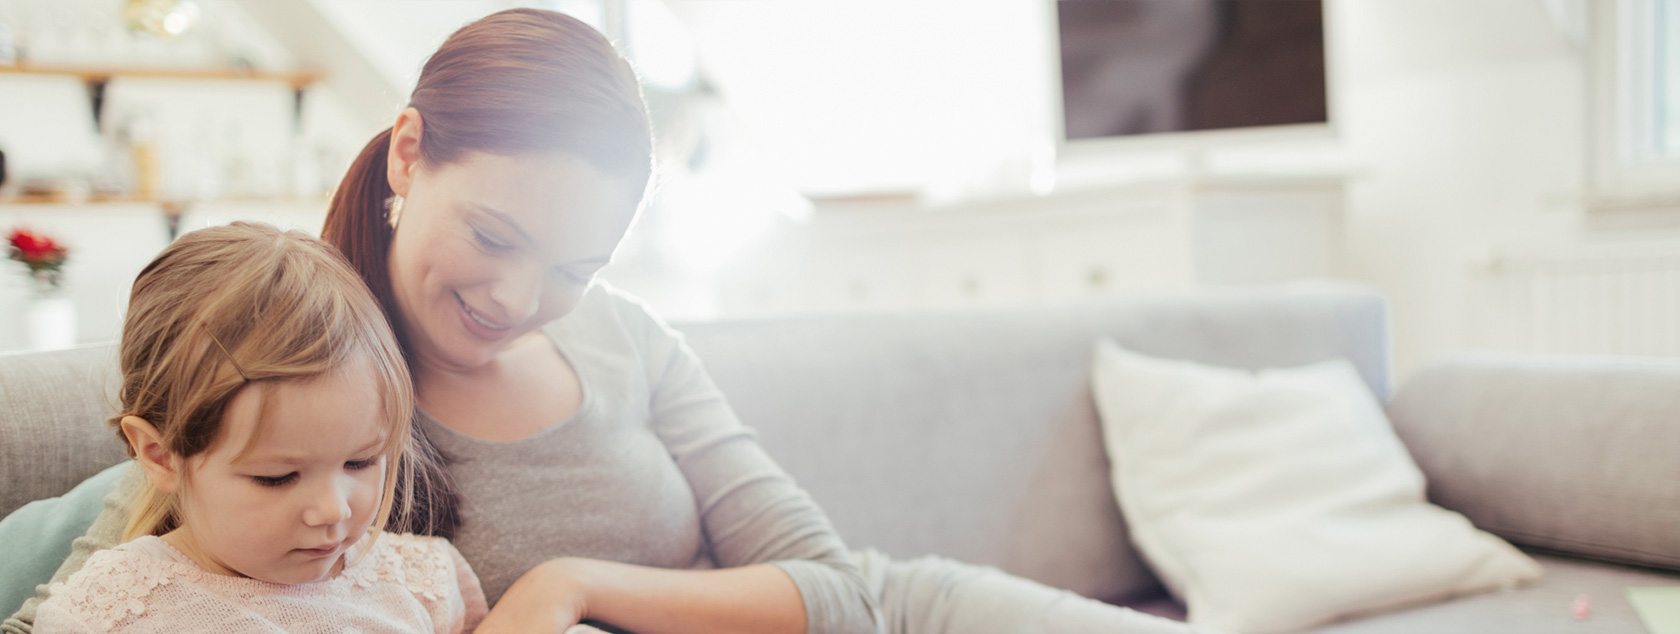
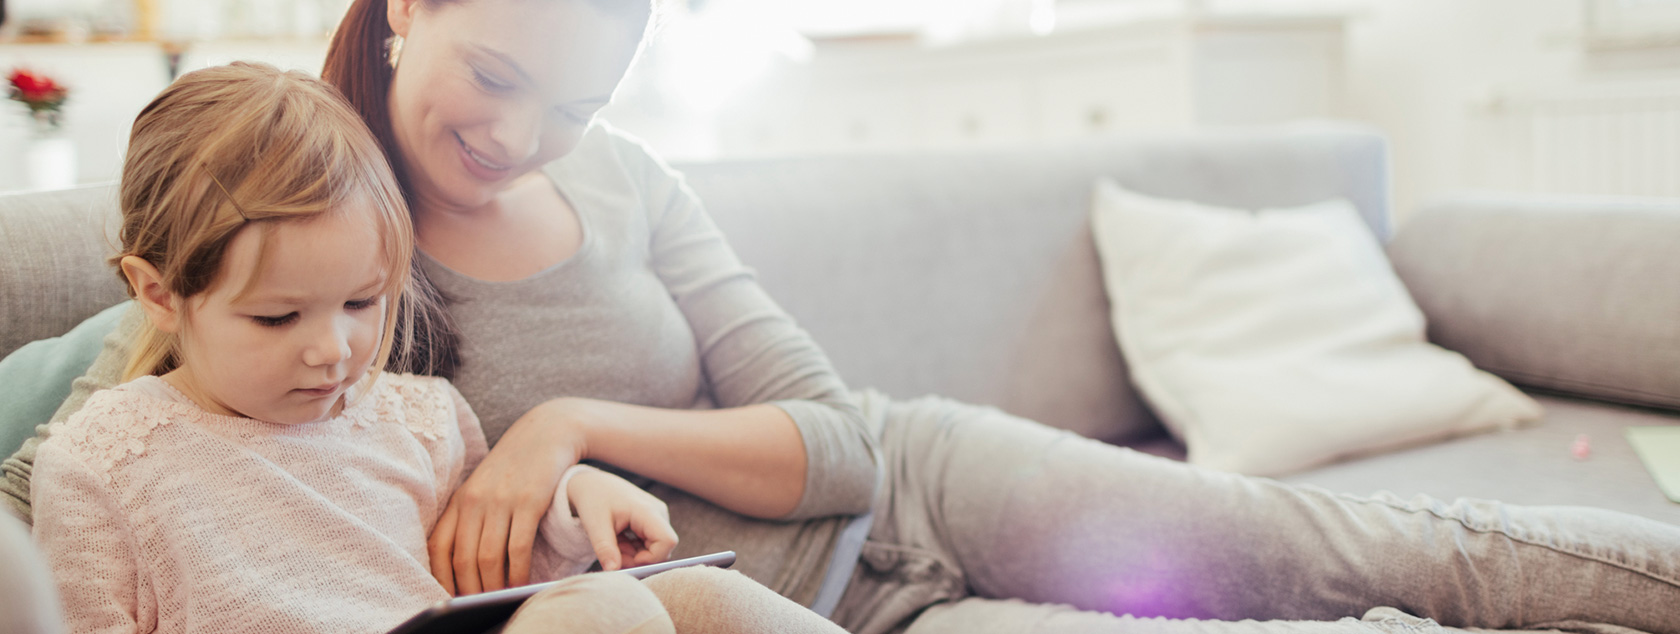
offset bg

diff --git a/landing_pret.html b/landing_pret.html
@@ -1829,7 +1829,8 @@
 
 		#mobile-image img{
 			width: 100%;
-
+			position: relative;
+			top:-45px;
 		}
 
 	  #main_image, #form{

diff --git a/landing_pret_full_page.html b/landing_pret_full_page.html
@@ -1858,7 +1858,8 @@
 
 		#mobile-image img{
 			width: 100%;
-
+			position: relative;
+			top:-45px;
 		}
 
 	  #main_image, #form{
